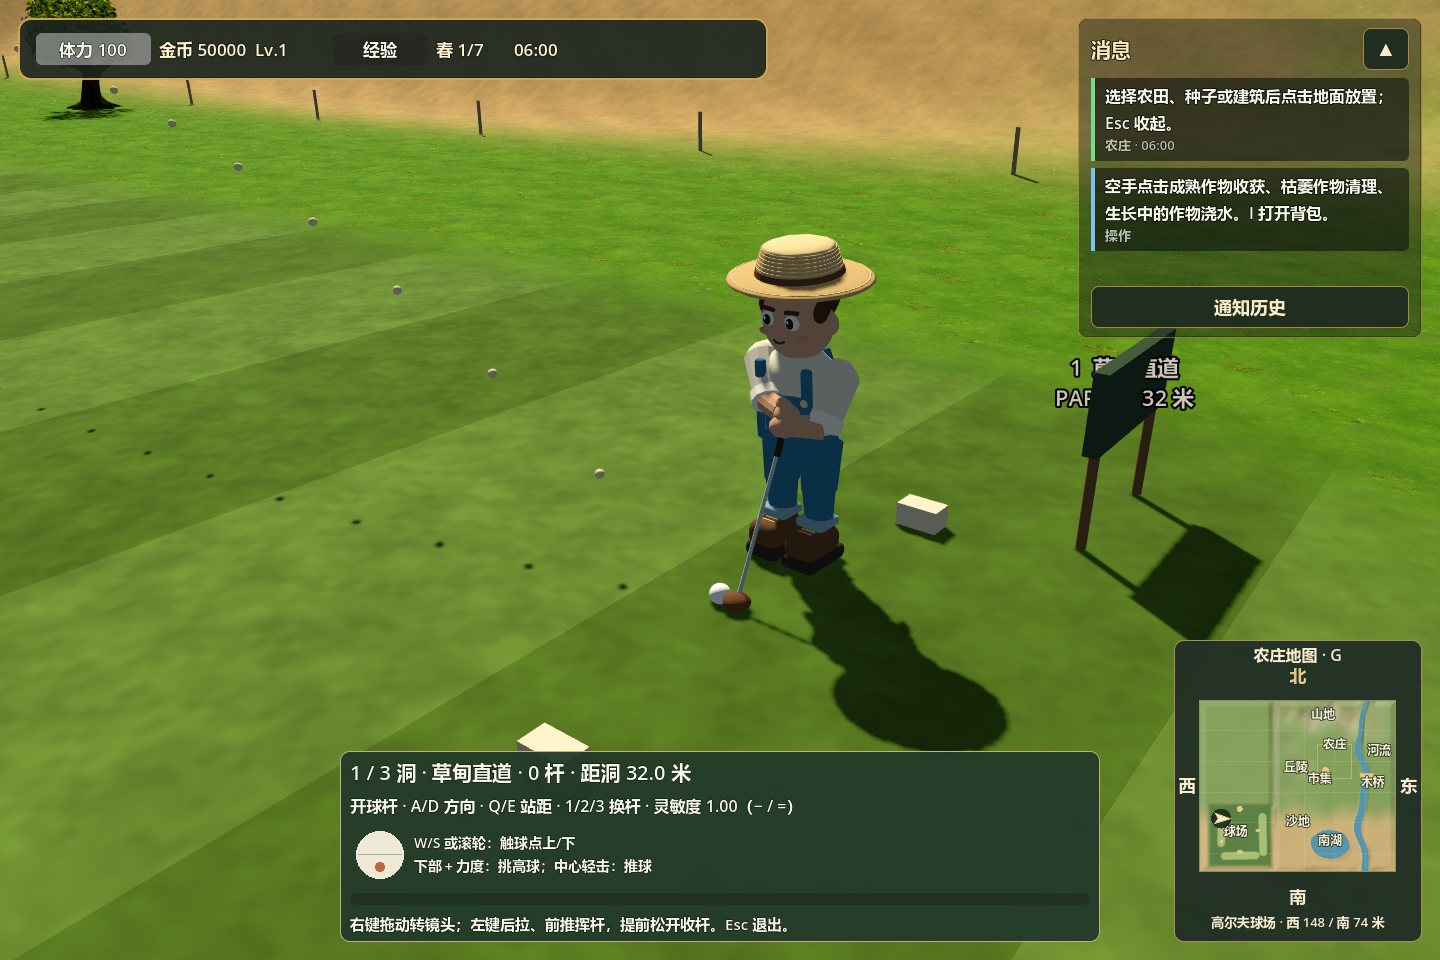
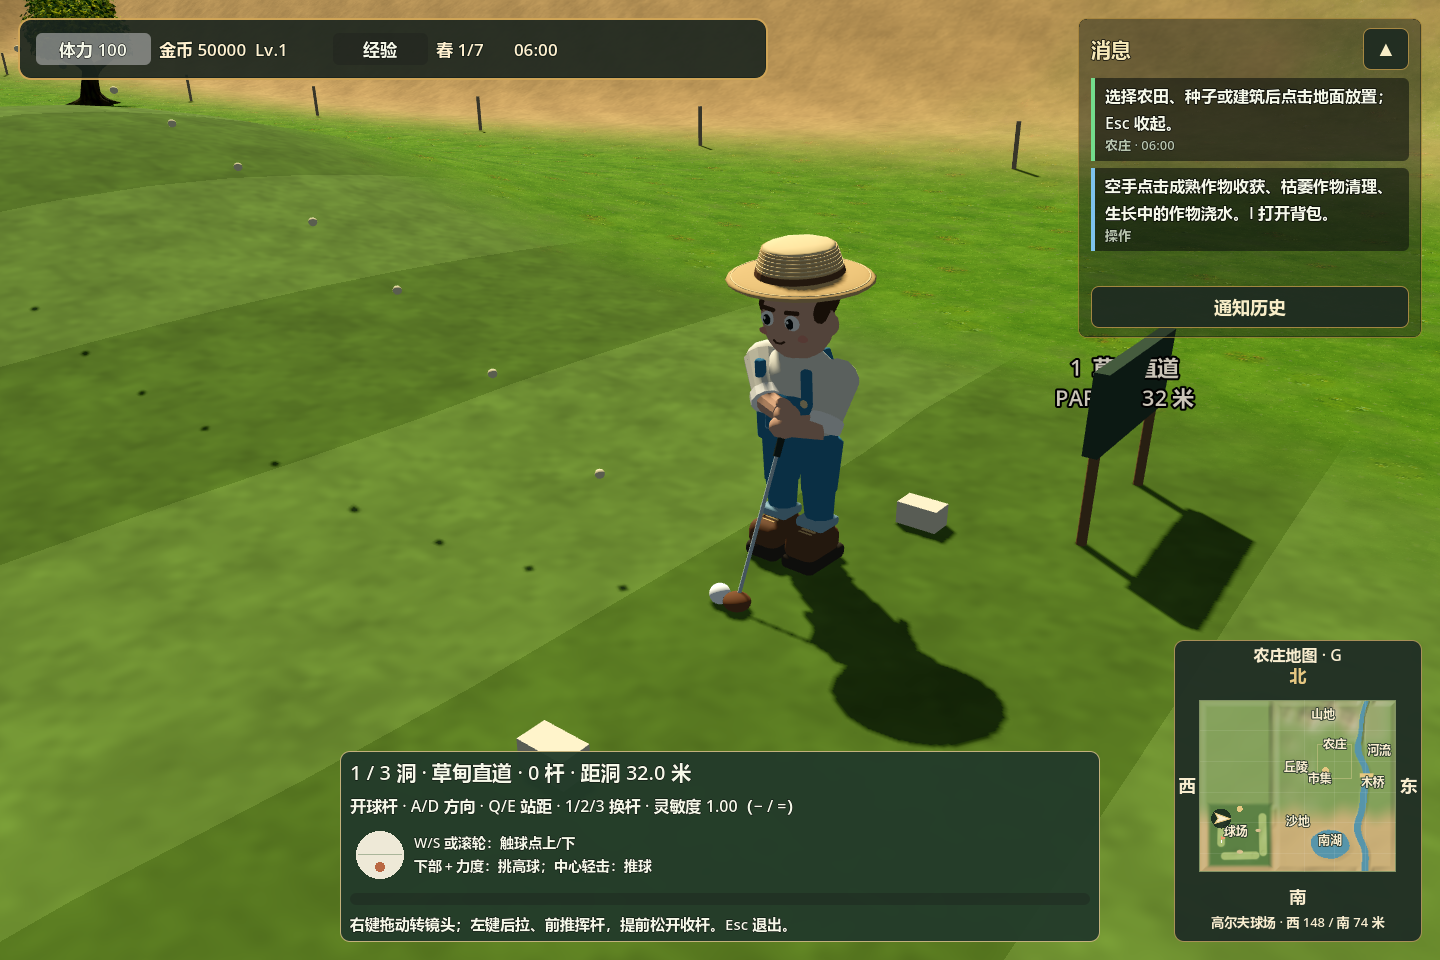
feat(golf): enhance terrain interaction and add new tests for golf mechanics

diff --git a/docs/validation/golf-3d.md b/docs/validation/golf-3d.md
@@ -25,11 +25,17 @@
 
 | 球洞 | 距离 | 特征 |
 | --- | --- | --- |
-| 草甸直道 | 32 米 | 平缓入门球道、大果岭 |
-| 沙丘弯道 | 40 米 | 缓坡与侧面沙坑 |
-| 湖风长道 | 46 米 | 球场东侧长球道、微倾果岭与侧面沙坑 |
+| 草甸直道 | 32 米 | 缓丘接浅谷，越过丘顶后下坡攻果岭 |
+| 沙丘弯道 | 40 米 | 沙坑旁隆起与侧肩，需控制落点和落地后的偏转 |
+| 湖风长道 | 46 米 | 较高的长丘与侧坡，低处球路和越丘击球各有难度 |
 
-每洞标准杆 3，共 9 杆；每洞上限 12 杆。草地、果岭和沙坑使用与球物理一致的区域定义。球按重力飞行，落地反弹，在坡面滚动；长草与沙坑耗能更快。低速进入洞口的球会落入洞杯，快速球可越过洞口。洞口同时切开地形网格与碰撞，杯壁和杯底采用立体几何。
+三条球道均有超过 1.5 米的高差，丘体采用宽缓过渡；发球台和洞口附近保持平整，外围果岭保留轻微倾斜。沙坑下凹并带有平滑坡沿。
+
+[草甸缓丘](images/golf_3d_meadow_hills.png) · [沙丘球道](images/golf_3d_dune_hills.png) · [长丘与侧坡](images/golf_3d_side_slope.png)
+
+每洞标准杆 3，共 9 杆；每洞上限 12 杆。草地、果岭和沙坑使用与球物理一致的区域定义。球按重力飞行、落地反弹；滚动时根据实际地形三角面的坡度计算重力分量，上坡减速，下坡加速，横坡会向低处偏转。球在陡坡上减速到转折点后可以回滚。滚动阻力依次为果岭、球道、长草、沙坑递增，坡度和材质共同影响停止距离。
+
+贴地球经过可见洞口、速度不超过 4.5 米／秒时即可落洞。判定检查整个移动线段，覆盖洞口中心和内沿，避免一帧跨过洞口却漏判。飞快滚过、空中越洞或从洞口外侧擦过均不会被吸入。洞口同时切开地形网格与碰撞，杯壁和杯底采用立体几何。
 
 越过场地外侧缓冲边界或进入水面，按本场规则额外罚 1 杆，将球放回本杆起点。当前球道均位于干燥陆地。参考轨迹帮助估计方向和距离，实际球速与落点仍由挥杆和地形决定。
 
@@ -43,11 +49,12 @@
 
 ## 验证
 
-- 高尔夫：98 项检查通过，并在实际 OpenGL 窗口中再次通过。新增侧身站位、向左挥杆、发球标记避让、三阶段右键镜头、镜头与瞄准独立、W/S 与滚轮触球点、站距调整、起飞／推球和短摆杆验证；保留鼠标挥杆、计分、物理、存档兼容和界面中断检查。
-- 本次相关回归：交互 44、钓鱼 105、小地图 22、风车 112 项通过。
-- 本次检查合计 381 项，高尔夫的实际渲染复跑不重复计数。9 张截图来自正式场景。
+- 地形与球物理：180 项检查，覆盖三洞高差、平整发球台与洞口、多方向／速度／帧率进洞、内沿进洞、高速／空中越洞、擦洞、连续路径判定、上坡回滚、下坡加速、横坡偏转和四种材质阻力。
+- 高尔夫集成：104 项检查，包含真实地形碰撞下的进洞，以及山丘网格高度、法线与球物理一致性；保留鼠标操作、镜头、计分、存档和界面中断检查。
+- 相关回归：地形 64 项、南湖 52 项、正式场景 52 项。共 452 项；高尔夫在实际 OpenGL 窗口复跑不重复计数。12 张截图来自正式场景。
 
 ```powershell
+godot_console.exe --headless --path . --script tests/run_3d_golf_terrain_tests.gd -- --farm-test
 godot_console.exe --headless --path . --script tests/run_3d_golf_tests.gd -- --farm-test
 godot_console.exe --path . --script tests/run_3d_golf_tests.gd -- --farm-test
 godot_console.exe --path . --script tests/capture_3d_golf.gd -- --farm-test

diff --git a/README.md b/README.md
@@ -125,6 +125,7 @@ godot_console.exe --headless --path . --script tests/run_3d_fishing_tests.gd -- 
 godot_console.exe --headless --path . --script tests/run_3d_market_tests.gd -- --farm-test
 godot_console.exe --headless --path . --script tests/run_3d_windmill_tests.gd -- --farm-test
 godot_console.exe --headless --path . --script tests/run_3d_golf_tests.gd -- --farm-test
+godot_console.exe --headless --path . --script tests/run_3d_golf_terrain_tests.gd -- --farm-test
 ```
 
 `--farm-test` 禁用玩家存档读写；截图也应带上该参数。
